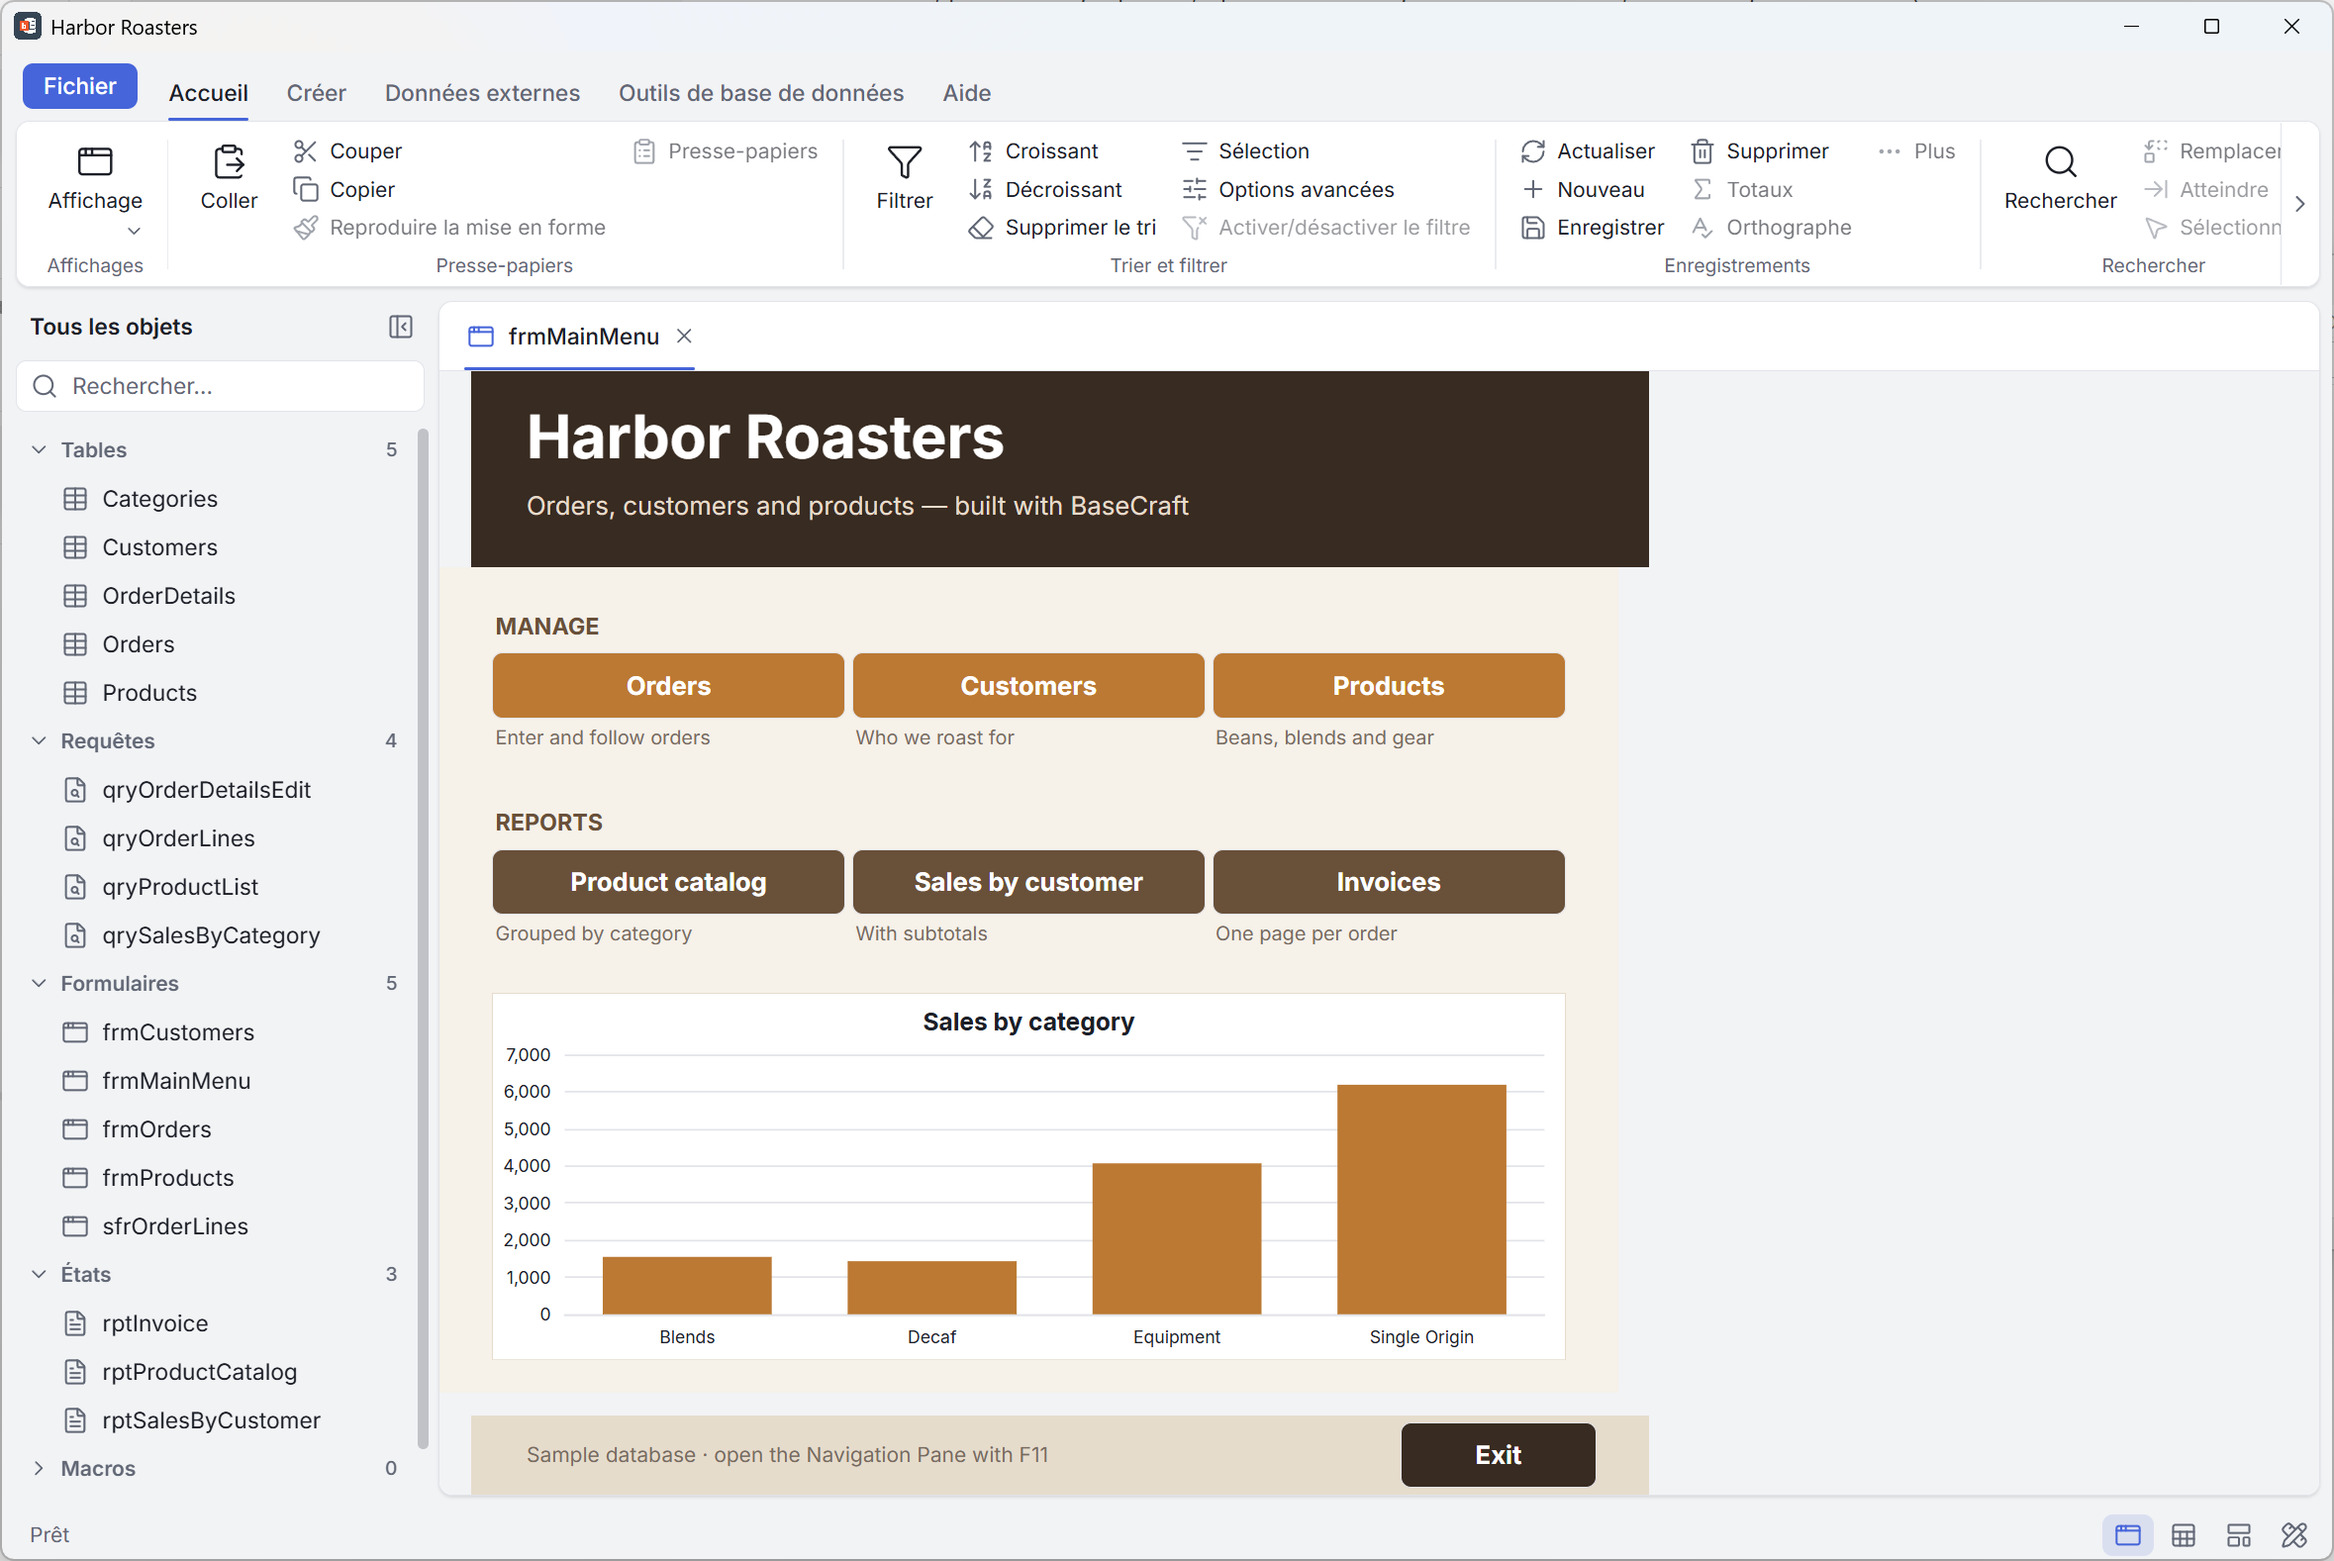
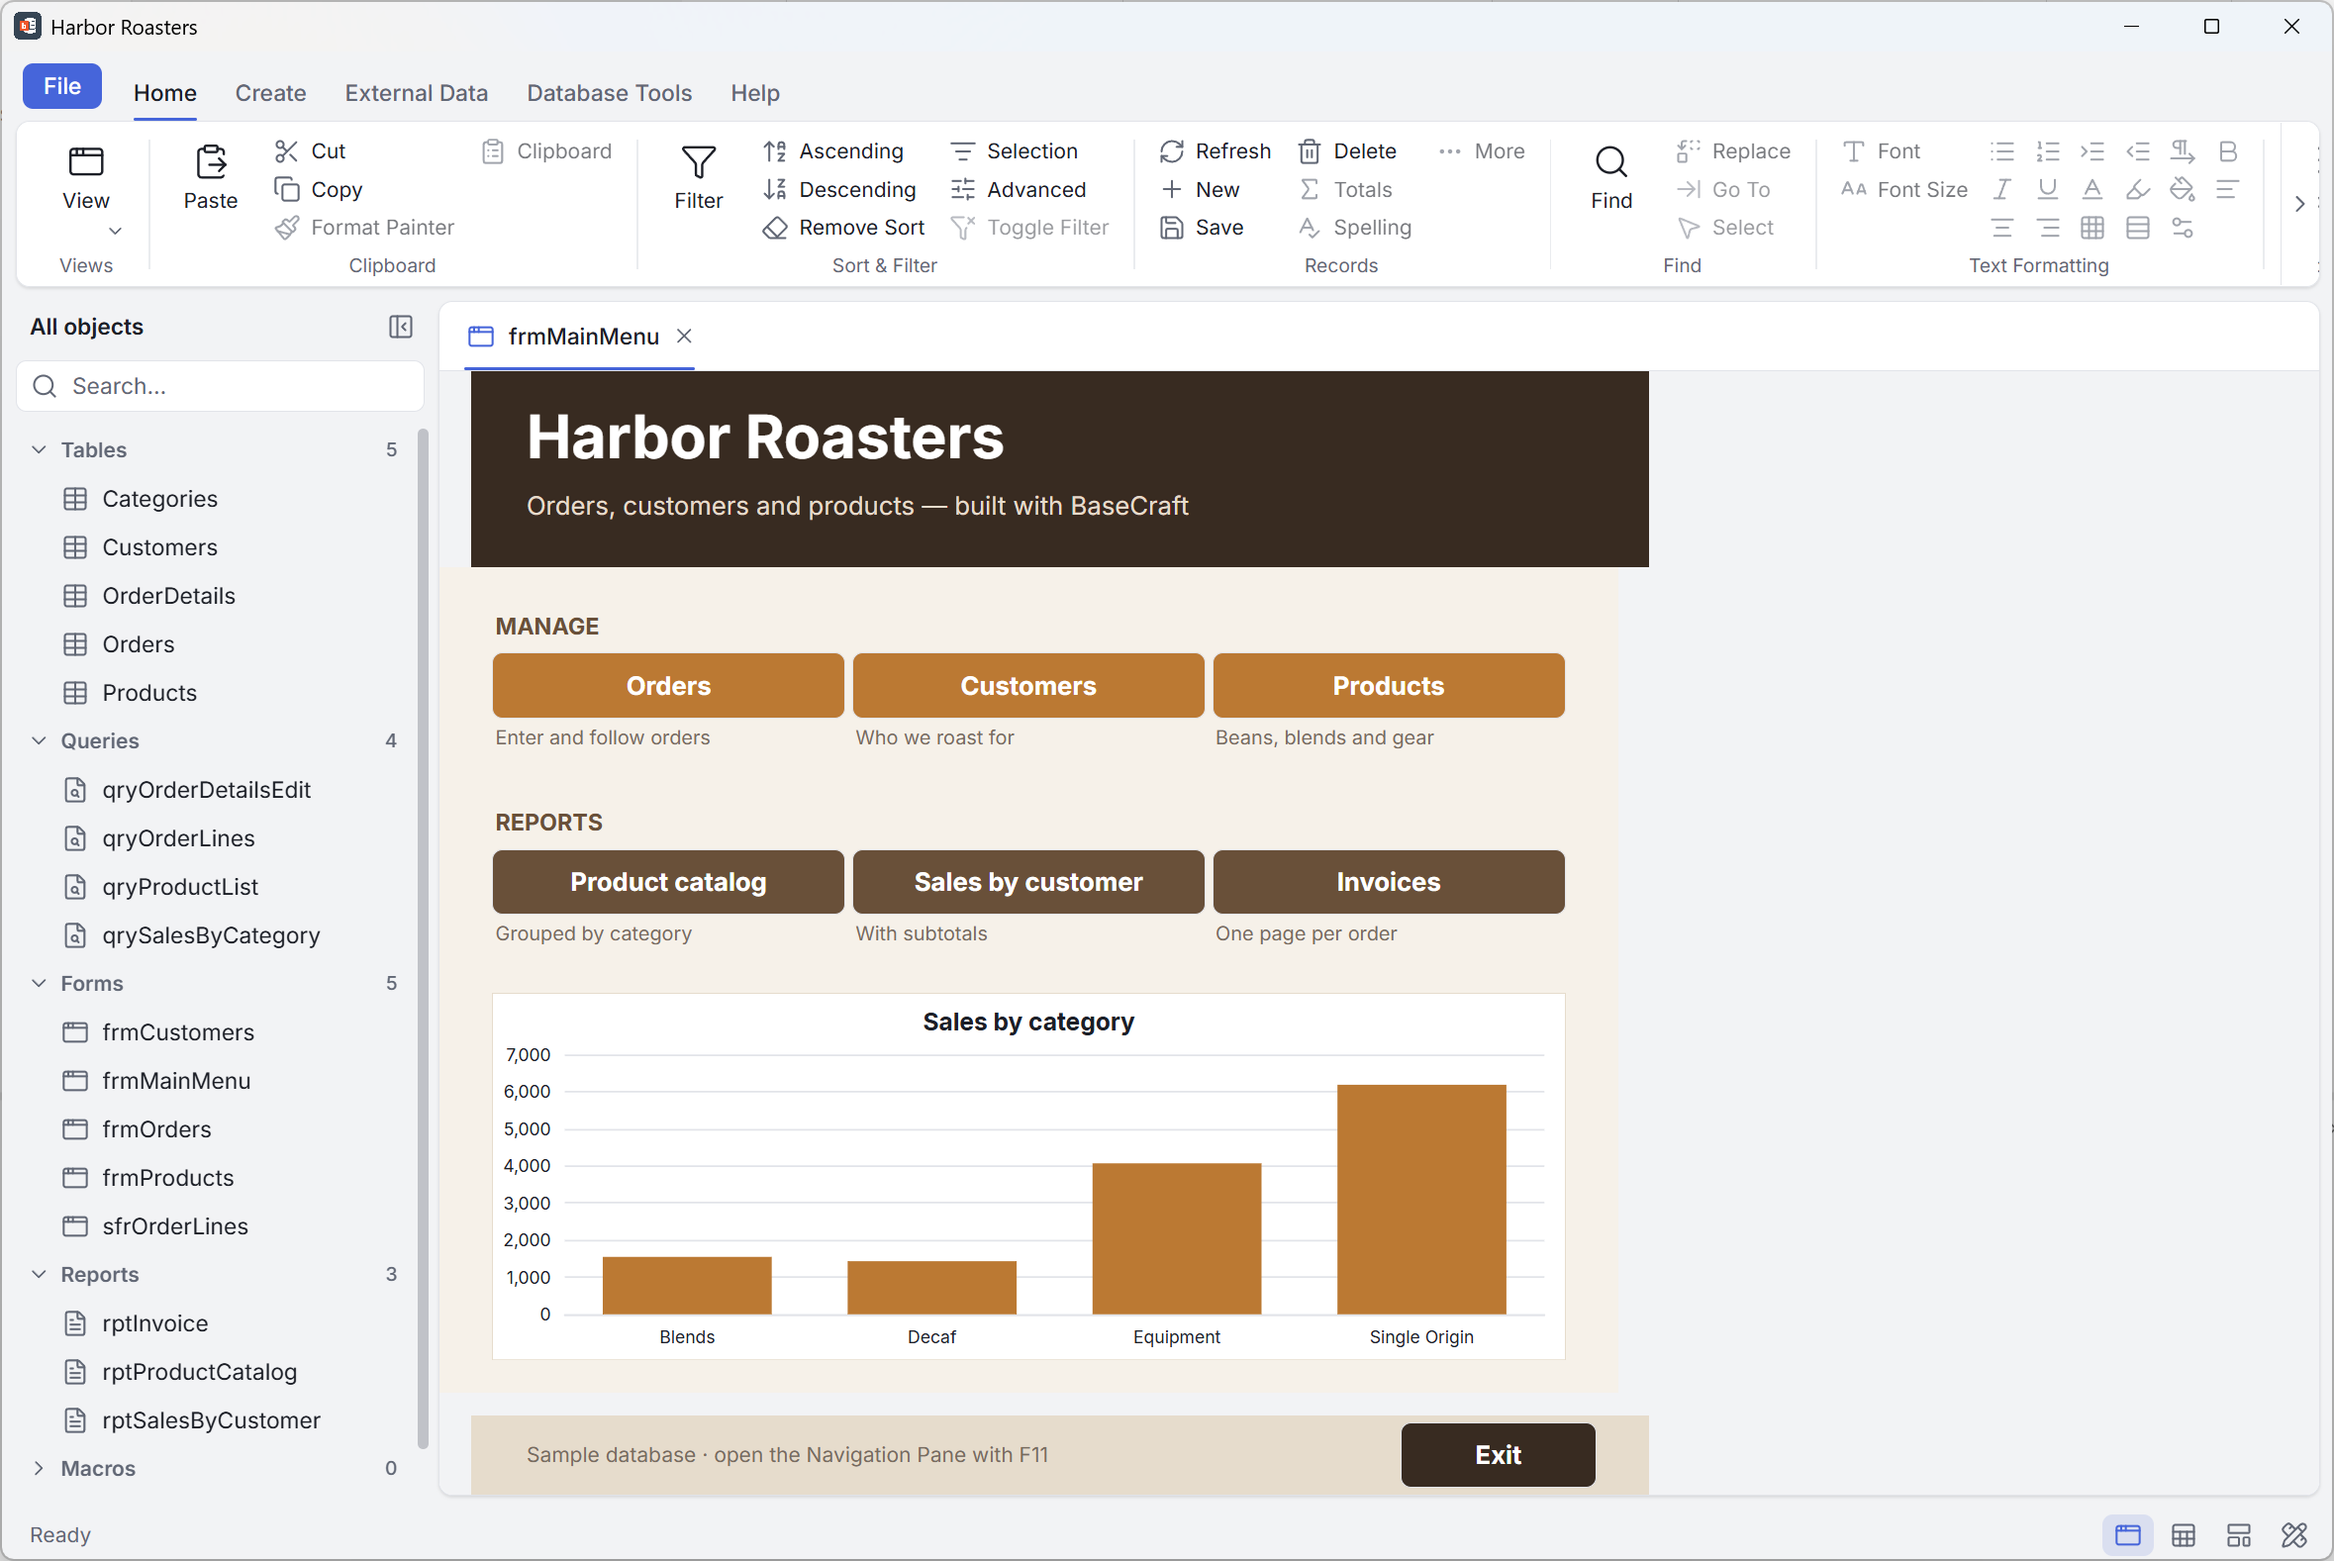
README: screenshot gallery from the Harbor Roasters sample base

diff --git a/docs/translations/README.fr.md b/docs/translations/README.fr.md
@@ -30,6 +30,15 @@ BaseCraft retrouve la manière Access de construire de petites applications de d
 
 > **État : développement précoce.** Les étapes A à D sont terminées dans la préversion 0.5.0, et l'étape F (dernières fonctions de conception des formulaires et états) est en cours : ordre de tabulation, thèmes, images et graphiques sont faits. Attendez-vous à des changements incompatibles avant la 1.0.
 
+## Captures d'écran
+
+<table>
+<tr><td align="center"><img src="../images/orders-form.png" alt="Formulaire avec sous-formulaire" width="440"><br><sub>Formulaire avec sous-formulaire</sub></td><td align="center"><img src="../images/report-preview.png" alt="Aperçu d'un état avec regroupement et sous-totaux" width="440"><br><sub>Aperçu d'un état avec regroupement et sous-totaux</sub></td></tr>
+<tr><td align="center"><img src="../images/report-design.png" alt="Mode Création d'un état et feuille de propriétés" width="440"><br><sub>Mode Création d'un état et feuille de propriétés</sub></td><td align="center"><img src="../images/query-design.png" alt="Création de requête" width="440"><br><sub>Création de requête</sub></td></tr>
+<tr><td align="center"><img src="../images/relationships.png" alt="Relations" width="440"><br><sub>Relations</sub></td><td align="center"><img src="../images/datasheet.png" alt="Feuille de données triée et filtrée" width="440"><br><sub>Feuille de données triée et filtrée</sub></td></tr>
+<tr><td align="center"><img src="../images/macro-designer.png" alt="Concepteur de macros et catalogue d'actions" width="440"><br><sub>Concepteur de macros et catalogue d'actions</sub></td></tr>
+</table>
+
 ## Pourquoi
 
 Les personnes qui gèrent des données structurées sur un poste de bureau finissent généralement avec :

diff --git a/docs/translations/README.es.md b/docs/translations/README.es.md
@@ -30,6 +30,15 @@ BaseCraft recupera la forma de construir pequeñas aplicaciones de datos al esti
 
 > **Estado: desarrollo temprano.** Las etapas A a D están completas en la versión preliminar 0.5.0, y la etapa F (últimas funciones de diseño de formularios e informes) está en curso: orden de tabulación, temas, imágenes y gráficos están hechos. Se esperan cambios incompatibles antes de la 1.0.
 
+## Capturas de pantalla
+
+<table>
+<tr><td align="center"><img src="../images/orders-form.png" alt="Formulario con subformulario" width="440"><br><sub>Formulario con subformulario</sub></td><td align="center"><img src="../images/report-preview.png" alt="Vista previa de informe con agrupación y subtotales" width="440"><br><sub>Vista previa de informe con agrupación y subtotales</sub></td></tr>
+<tr><td align="center"><img src="../images/report-design.png" alt="Vista Diseño de informe y hoja de propiedades" width="440"><br><sub>Vista Diseño de informe y hoja de propiedades</sub></td><td align="center"><img src="../images/query-design.png" alt="Diseño de consulta" width="440"><br><sub>Diseño de consulta</sub></td></tr>
+<tr><td align="center"><img src="../images/relationships.png" alt="Relaciones" width="440"><br><sub>Relaciones</sub></td><td align="center"><img src="../images/datasheet.png" alt="Hoja de datos ordenada y filtrada" width="440"><br><sub>Hoja de datos ordenada y filtrada</sub></td></tr>
+<tr><td align="center"><img src="../images/macro-designer.png" alt="Diseñador de macros y catálogo de acciones" width="440"><br><sub>Diseñador de macros y catálogo de acciones</sub></td></tr>
+</table>
+
 ## Por qué
 
 Quienes gestionan datos estructurados en el escritorio suelen acabar con:

diff --git a/docs/translations/README.pt.md b/docs/translations/README.pt.md
@@ -30,6 +30,15 @@ O BaseCraft traz de volta o jeito Access de criar pequenos aplicativos de dados 
 
 > **Status: desenvolvimento inicial.** As etapas A a D estão concluídas na prévia 0.5.0, e a etapa F (últimos recursos de design de formulários e relatórios) está em andamento: ordem de tabulação, temas, imagens e gráficos estão prontos. Espere mudanças incompatíveis antes da 1.0.
 
+## Capturas de tela
+
+<table>
+<tr><td align="center"><img src="../images/orders-form.png" alt="Formulário com subformulário" width="440"><br><sub>Formulário com subformulário</sub></td><td align="center"><img src="../images/report-preview.png" alt="Visualização de relatório com agrupamento e subtotais" width="440"><br><sub>Visualização de relatório com agrupamento e subtotais</sub></td></tr>
+<tr><td align="center"><img src="../images/report-design.png" alt="Modo Design de relatório e folha de propriedades" width="440"><br><sub>Modo Design de relatório e folha de propriedades</sub></td><td align="center"><img src="../images/query-design.png" alt="Design de consulta" width="440"><br><sub>Design de consulta</sub></td></tr>
+<tr><td align="center"><img src="../images/relationships.png" alt="Relações" width="440"><br><sub>Relações</sub></td><td align="center"><img src="../images/datasheet.png" alt="Folha de dados ordenada e filtrada" width="440"><br><sub>Folha de dados ordenada e filtrada</sub></td></tr>
+<tr><td align="center"><img src="../images/macro-designer.png" alt="Designer de macros e catálogo de ações" width="440"><br><sub>Designer de macros e catálogo de ações</sub></td></tr>
+</table>
+
 ## Por quê
 
 Quem gerencia dados estruturados no desktop costuma acabar com:

diff --git a/docs/translations/README.de.md b/docs/translations/README.de.md
@@ -30,6 +30,15 @@ BaseCraft bringt die Access-Art, kleine Datenanwendungen zu bauen, zurück – T
 
 > **Status: frühe Entwicklung.** Die Stufen A bis D sind in der Vorschauversion 0.5.0 abgeschlossen, und Stufe F (letzte Entwurfsfunktionen für Formulare und Berichte) läuft: Aktivierreihenfolge, Designs, Bilder und Diagramme sind fertig. Bis 1.0 sind inkompatible Änderungen zu erwarten.
 
+## Screenshots
+
+<table>
+<tr><td align="center"><img src="../images/orders-form.png" alt="Formular mit Unterformular" width="440"><br><sub>Formular mit Unterformular</sub></td><td align="center"><img src="../images/report-preview.png" alt="Berichtsvorschau mit Gruppierung und Zwischensummen" width="440"><br><sub>Berichtsvorschau mit Gruppierung und Zwischensummen</sub></td></tr>
+<tr><td align="center"><img src="../images/report-design.png" alt="Berichtsentwurf und Eigenschaftenblatt" width="440"><br><sub>Berichtsentwurf und Eigenschaftenblatt</sub></td><td align="center"><img src="../images/query-design.png" alt="Abfrageentwurf" width="440"><br><sub>Abfrageentwurf</sub></td></tr>
+<tr><td align="center"><img src="../images/relationships.png" alt="Beziehungen" width="440"><br><sub>Beziehungen</sub></td><td align="center"><img src="../images/datasheet.png" alt="Datenblatt, sortiert und gefiltert" width="440"><br><sub>Datenblatt, sortiert und gefiltert</sub></td></tr>
+<tr><td align="center"><img src="../images/macro-designer.png" alt="Makro-Designer und Aktionskatalog" width="440"><br><sub>Makro-Designer und Aktionskatalog</sub></td></tr>
+</table>
+
 ## Warum
 
 Wer strukturierte Daten am Desktop verwaltet, landet meist bei:

diff --git a/README.md b/README.md
@@ -30,6 +30,15 @@ BaseCraft brings back the Access way of building small data applications — tab
 
 > **Status: early development.** Stages A to D are complete in preview 0.5.0, and stage F (last form and report design features) is under way: tab order, themes, images and charts are done. Expect breaking changes before 1.0.
 
+## Screenshots
+
+<table>
+<tr><td align="center"><img src="docs/images/orders-form.png" alt="Form with a subform" width="440"><br><sub>Form with a subform</sub></td><td align="center"><img src="docs/images/report-preview.png" alt="Report preview with grouping and subtotals" width="440"><br><sub>Report preview with grouping and subtotals</sub></td></tr>
+<tr><td align="center"><img src="docs/images/report-design.png" alt="Report Design view and Property Sheet" width="440"><br><sub>Report Design view and Property Sheet</sub></td><td align="center"><img src="docs/images/query-design.png" alt="Query Design" width="440"><br><sub>Query Design</sub></td></tr>
+<tr><td align="center"><img src="docs/images/relationships.png" alt="Relationships" width="440"><br><sub>Relationships</sub></td><td align="center"><img src="docs/images/datasheet.png" alt="Datasheet, sorted and filtered" width="440"><br><sub>Datasheet, sorted and filtered</sub></td></tr>
+<tr><td align="center"><img src="docs/images/macro-designer.png" alt="Macro Designer and Action Catalog" width="440"><br><sub>Macro Designer and Action Catalog</sub></td></tr>
+</table>
+
 ## Why
 
 People who manage structured data on a desktop usually end up with:
